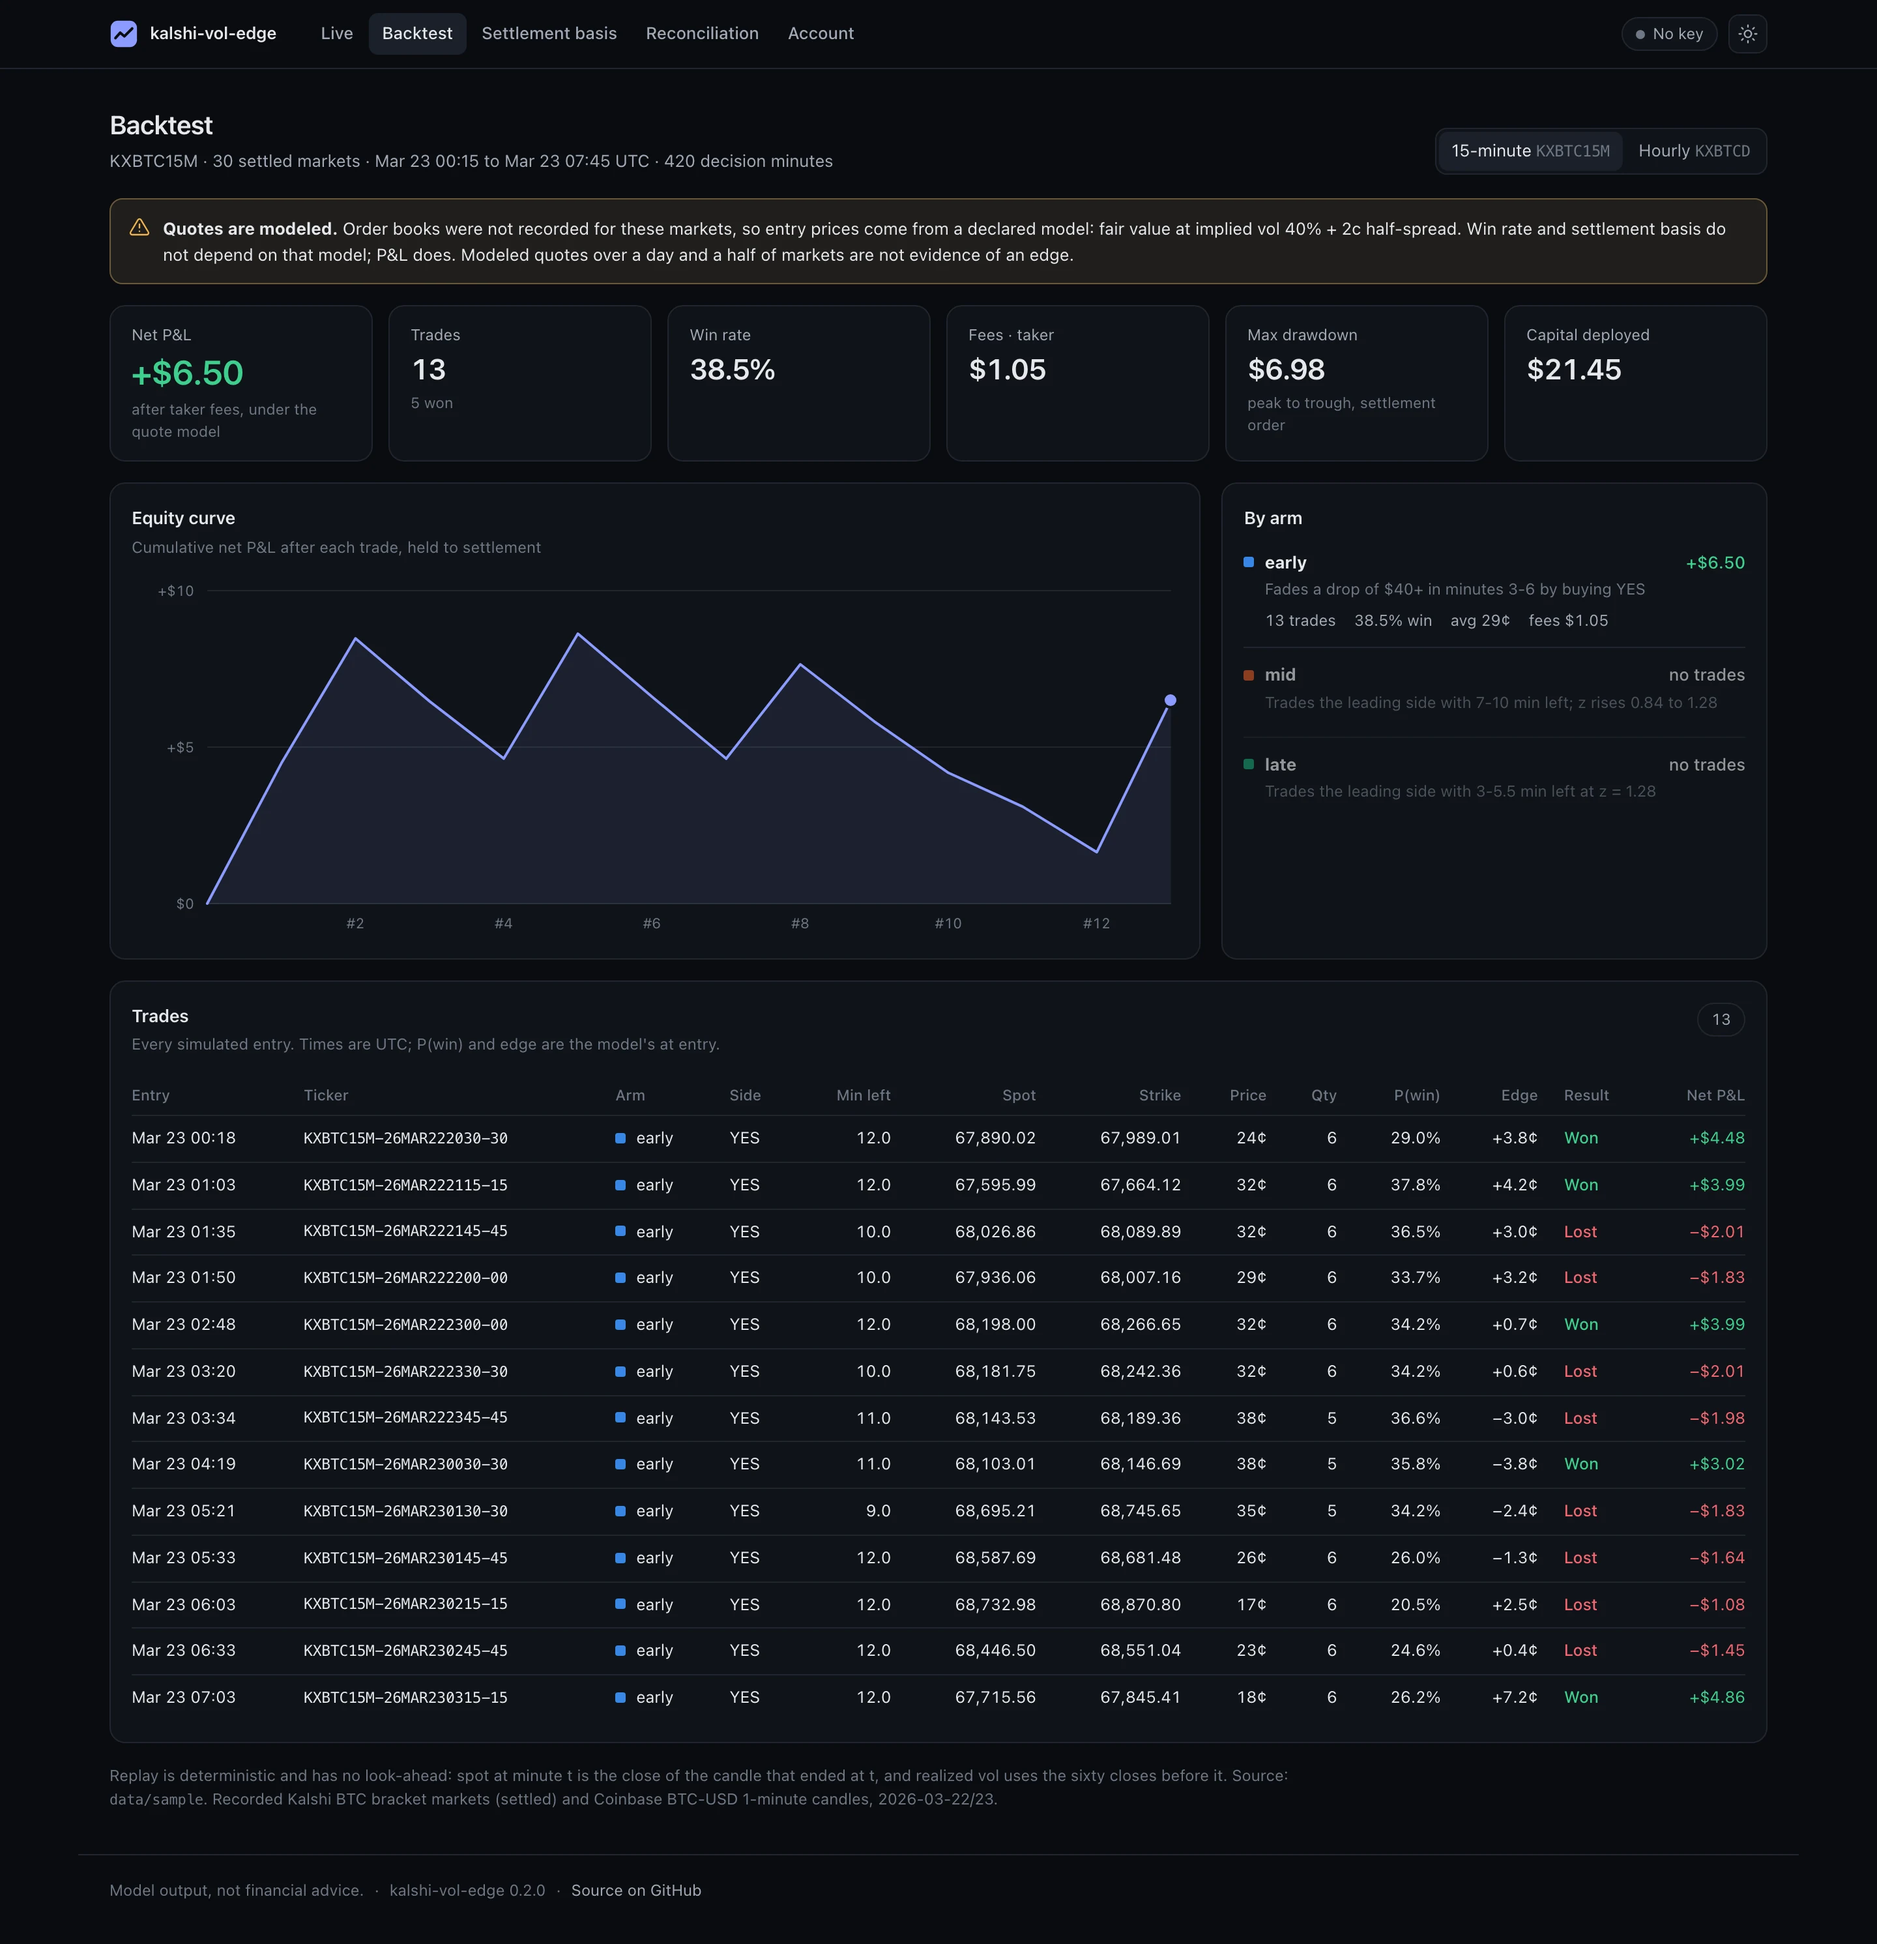
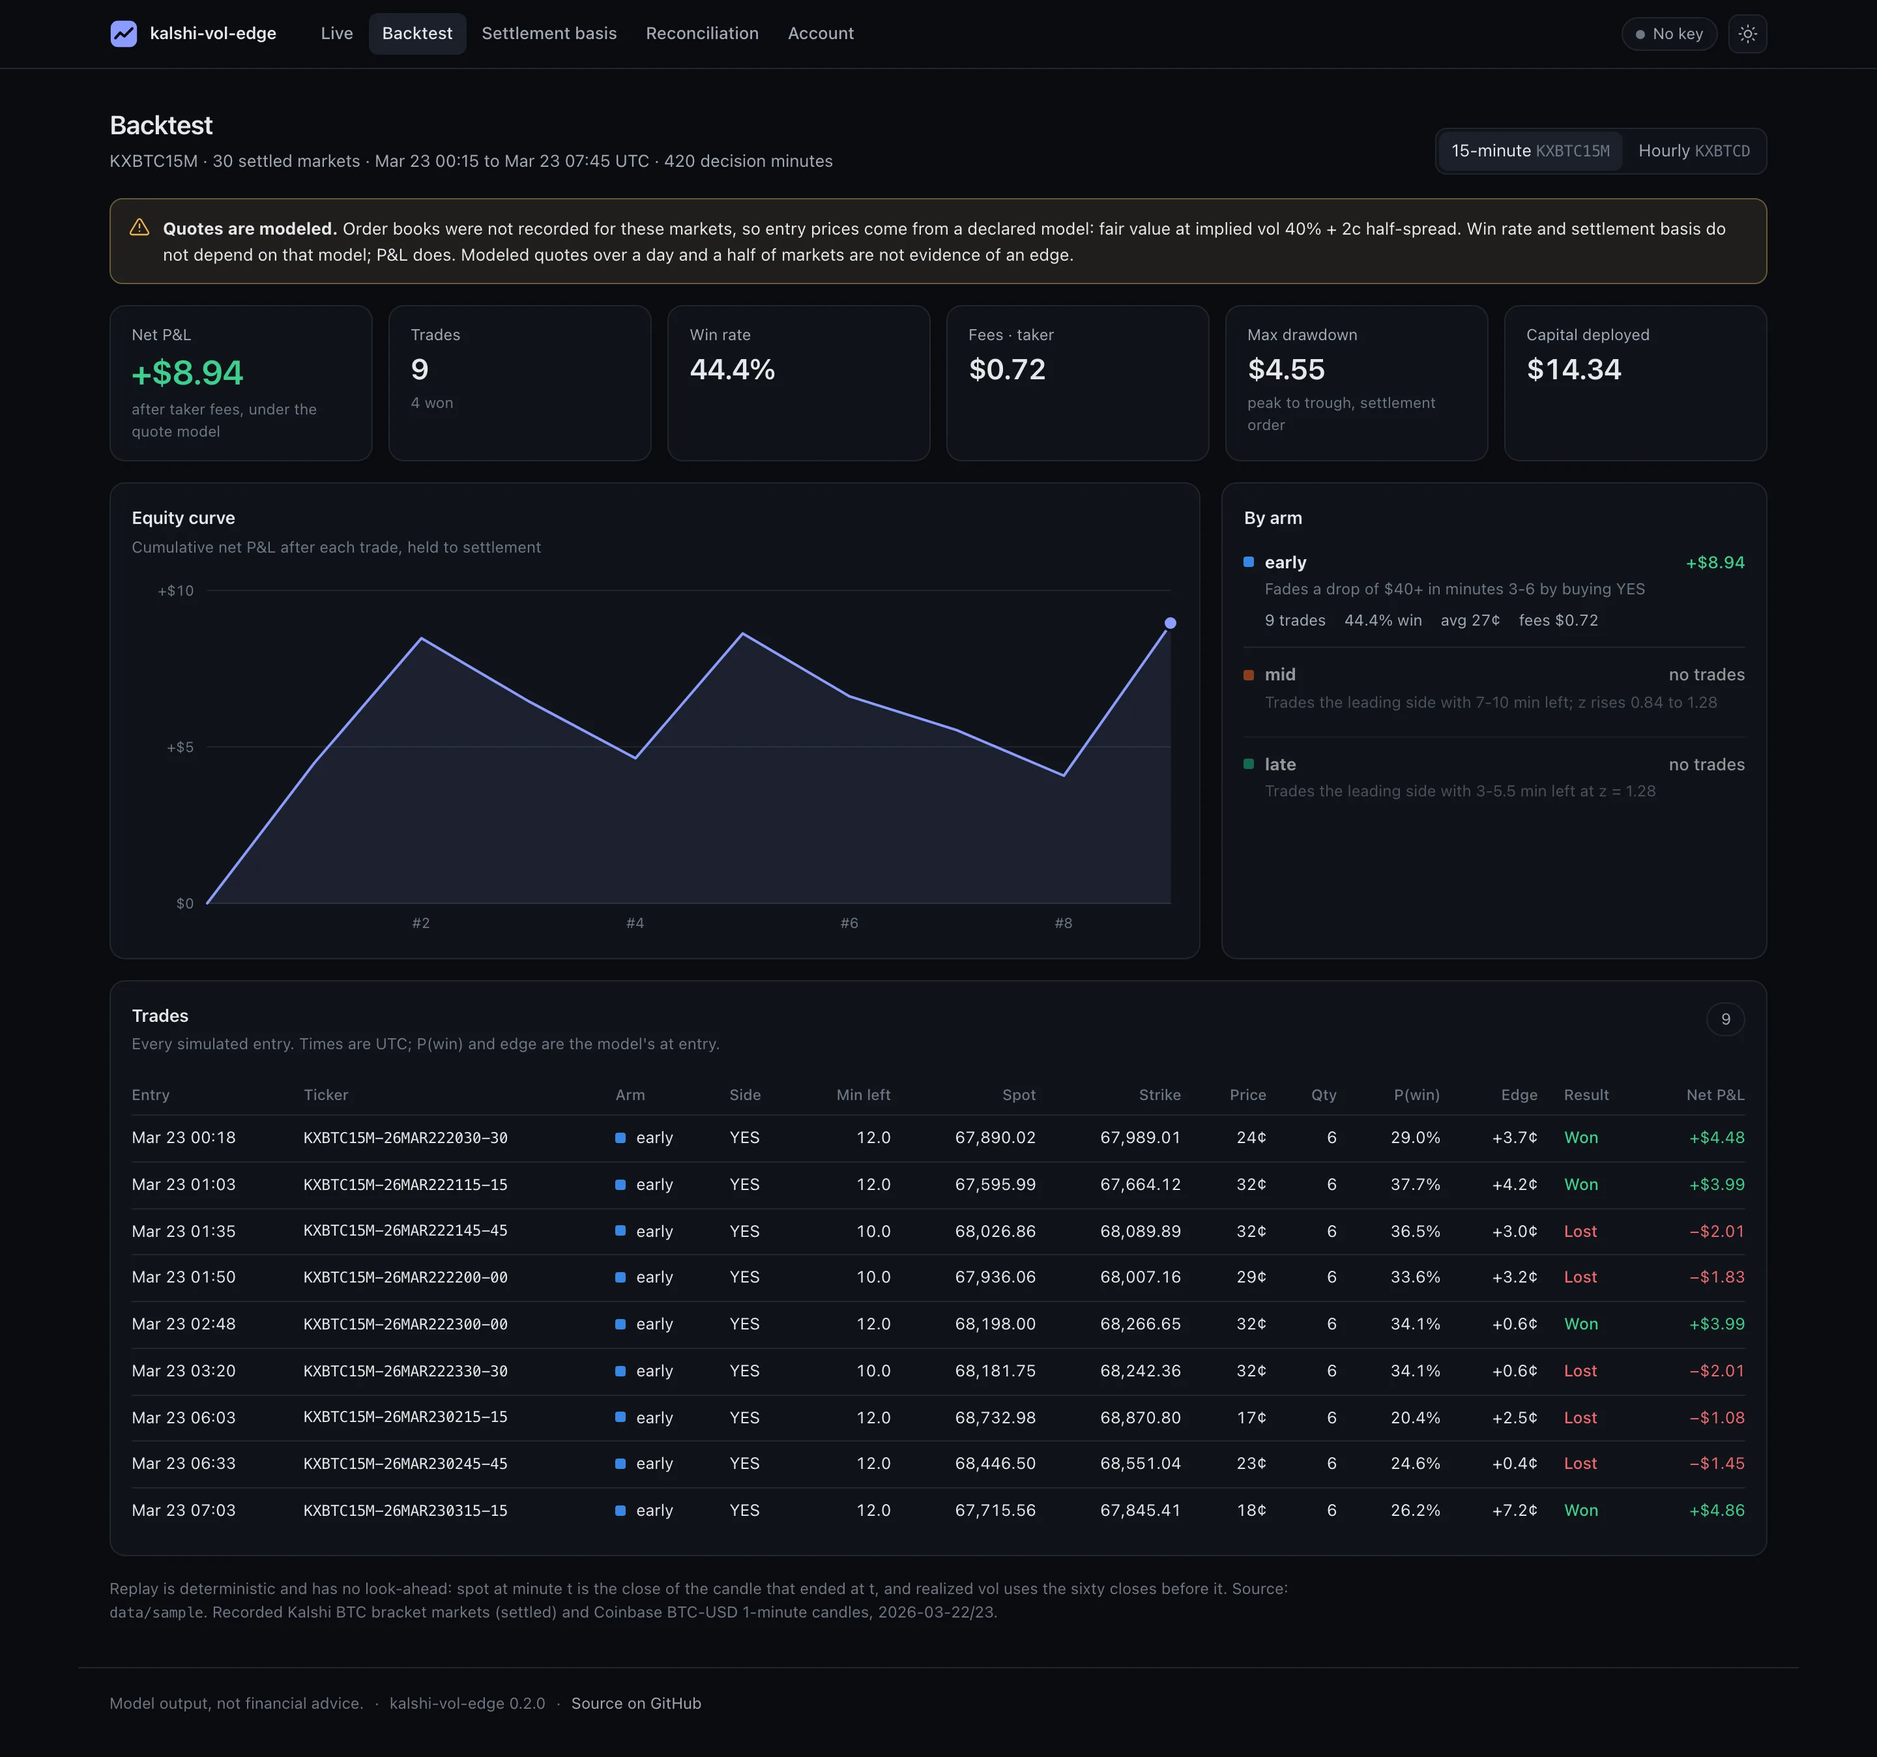
docs: refresh backtest and reconciliation screenshots
The backtest screenshot still showed 13 trades, four of them with
negative edge. Both screenshots are re-captured from kve dashboard
(1440px, 2x, dark) after the fixes, and the README's development table
shows the current mypy and pytest results.

diff --git a/README.md b/README.md
@@ -157,8 +157,8 @@ CI runs all of the above on Python 3.11, 3.12 and 3.13, plus the backtest and re
 | Command | Result (macOS, Python 3.12.8; tests and mypy also pass on 3.11.6 and 3.13.1) |
 | --- | --- |
 | `uv run ruff check .` / `ruff format --check .` | All checks passed / already formatted |
-| `uv run mypy` | Success: no issues found in 33 source files |
-| `uv run pytest -q` | 143 passed |
+| `uv run mypy` | Success: no issues found in 35 source files |
+| `uv run pytest -q` | 194 passed |
 | `uv run kve backtest --fixtures data/sample` | report above, exit 0 |
 | `uv run kve backtest --fixtures /nonexistent` | `fixture directory not found`, exit 2 |
 
